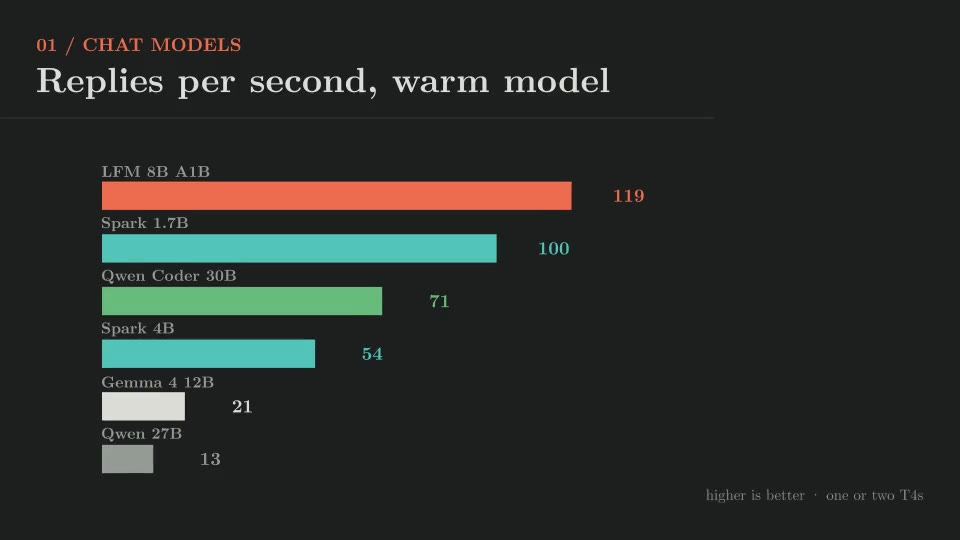
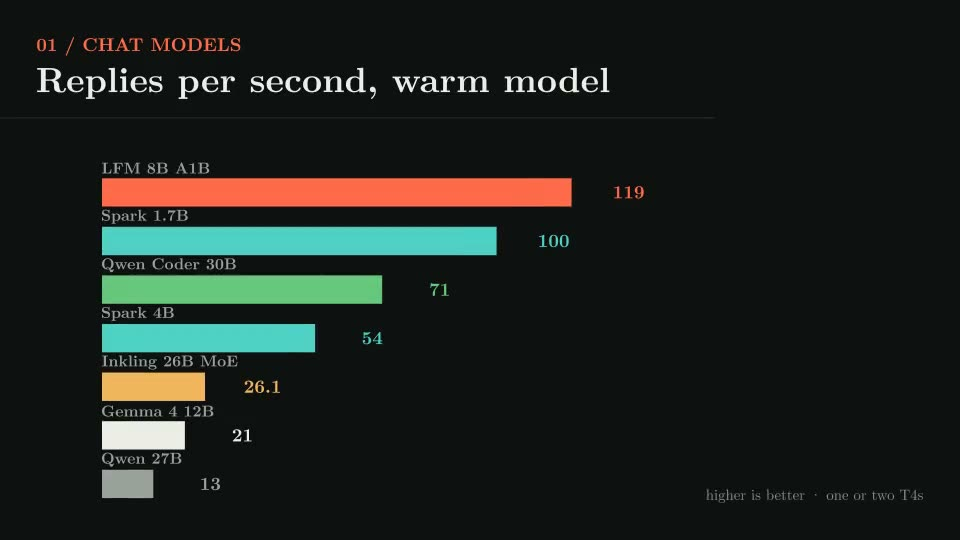
Fold the recommended Inkling quant into the chat leaderboard
Build-time join in build_data.py appends the AD-IQ2_M entry
(26.1 tok/s decode, 341.8 prefill, 9.0 GB, one T4) to the chat
scoreboard from the inkling CSV - extracted.json stays untouched
as a completed project's artifact. The page bars, the page table,
the GEO chat table and the re-rendered LlmSpeed animation all
carry the entry between Spark 4B and Gemma 12B; the chapter
verdict now notes LFM replies ~4.6x faster than the looped 26B.

diff --git a/website/benchmarks.html b/website/benchmarks.html
@@ -32,7 +32,7 @@
 <p style="color:#AAB3AB">Every number below is measured on the same Kaggle notebook: 2x Tesla T4 15 GB, 31 GB RAM, 4 vCPU, CUDA 13. Source notes: <a href="https://blog.sdad.pro/" style="color:#FF6B4A">blog.sdad.pro</a>.</p>
 
 <h2 style='font-family:Georgia,serif;margin-top:38px'>Inkling-2-Mini on Kaggle 2x T4</h2><p style='color:#AAB3AB;line-height:1.7'>Inkling-2-Mini (thinkingmachines, 26.4B mixture-of-experts, 3.4B active,<br>looped transformer, multimodal) runs on ONE Tesla T4 via llama.cpp b12633<br>(CUDA 12.8 prebuilt) with GGUF quants up to 12.7 GB:<br>- Best all-round (recommended): AD-IQ2_M (uncens.) (8.06 GB) at 26.1 tok/s<br>  generation, 341.8 tok/s prompt; vision works with the mmproj<br>  projector at 37.3 s per image chat (14 GB peak).<br>- Fastest measured: UD-IQ1_M (1-bit) at 26.5 tok/s, but 1-bit<br>  quality is far below the recommended tier.<br>- Quality ceiling on one card: UD-Q3_K_XL (12.69 GB) at 24.3 tok/s.<br>- All six single-card quants measure 22.3-26.5 tok/s<br>  (512-token prompt, 256 generated, 3 repetitions).<br>- 4-bit quants (15.5-21.3 GB) do not fit one T4 and cannot be split across<br>  both: llama.cpp tensor-split is not implemented for this architecture;<br>  a GPU+CPU hybrid manages only 1.9-2.4 tok/s.<br>- Ollama (MLX-only official tag; bundled runner lacks the architecture),<br>  vLLM, SGLang and transformers all fail on this machine.<br>Full report: https://github.com/instax-dutta/T4-Bench/blob/main/benchmarks/inkling-2-mini/docs/BENCHMARK-RESULTS.md</p>
-<h2 style='font-family:Georgia,serif;margin-top:38px'>Chat and coding models</h2><table><thead><tr><th>Model</th><th>Reply tok/s</th><th>Prompt tok/s</th><th>VRAM GB</th><th>GPUs</th></tr></thead><tbody><tr><td>LiquidAI LFM2.5-8B-A1B</td><td>119.0</td><td>800.0</td><td>5.7</td><td>1x T4</td></tr><tr><td>XHToken Spark-X2.5-1.7B</td><td>100.0</td><td>n/a</td><td>1.3</td><td>1x T4</td></tr><tr><td>Qwen3-Coder-30B-A3B</td><td>71.0</td><td>165.0</td><td>22.0</td><td>2x T4 split</td></tr><tr><td>XHToken Spark-X2.5-4B</td><td>54.0</td><td>1385.0</td><td>3.7</td><td>1x T4</td></tr><tr><td>google Gemma 4 12B IT</td><td>21.0</td><td>144.0</td><td>8.1</td><td>1x T4</td></tr><tr><td>Qwen3.8-27B</td><td>13.0</td><td>52.0</td><td>17.7</td><td>2x T4 split</td></tr></tbody></table>
+<h2 style='font-family:Georgia,serif;margin-top:38px'>Chat and coding models</h2><table><thead><tr><th>Model</th><th>Reply tok/s</th><th>Prompt tok/s</th><th>VRAM GB</th><th>GPUs</th></tr></thead><tbody><tr><td>LiquidAI LFM2.5-8B-A1B</td><td>119.0</td><td>800.0</td><td>5.7</td><td>1x T4</td></tr><tr><td>XHToken Spark-X2.5-1.7B</td><td>100.0</td><td>n/a</td><td>1.3</td><td>1x T4</td></tr><tr><td>Qwen3-Coder-30B-A3B</td><td>71.0</td><td>165.0</td><td>22.0</td><td>2x T4 split</td></tr><tr><td>XHToken Spark-X2.5-4B</td><td>54.0</td><td>1385.0</td><td>3.7</td><td>1x T4</td></tr><tr><td>Inkling-2-Mini AD-IQ2_M (multimodal)</td><td>26.1</td><td>341.8</td><td>9.0</td><td>1x T4</td></tr><tr><td>google Gemma 4 12B IT</td><td>21.0</td><td>144.0</td><td>8.1</td><td>1x T4</td></tr><tr><td>Qwen3.8-27B</td><td>13.0</td><td>52.0</td><td>17.7</td><td>2x T4 split</td></tr></tbody></table>
 <h2 style='font-family:Georgia,serif;margin-top:38px'>Two-agent concurrency</h2><table><thead><tr><th>Agents</th><th>Per agent</th><th>Aggregate</th></tr></thead><tbody><tr><td>1.0</td><td>71 tok/s</td><td>11 tok/s (load-dominated wall)</td></tr><tr><td>2.0</td><td>56 + 52 tok/s</td><td>92 tok/s over 2.3s wall</td></tr></tbody></table>
 <h2 style='font-family:Georgia,serif;margin-top:38px'>Tool-use evaluation</h2><table><thead><tr><th>Metric</th><th>Score</th></tr></thead><tbody><tr><td>Passed / partial / failed</td><td>9 / 4 / 2</td></tr><tr><td>Points</td><td>22/30</td></tr><tr><td>Quality</td><td>73/100</td></tr><tr><td>Responsiveness</td><td>74/100 (median turn 1.5s)</td></tr><tr><td>Deployability</td><td>73/100</td></tr><tr><td>Weakest category</td><td>Multi-Step Chains (33%)</td></tr><tr><td>Safety</td><td>1 warning (TC-08: batched tools before reading results)</td></tr></tbody></table>
 <h2 style='font-family:Georgia,serif;margin-top:38px'>Spark agent tasks</h2><table><thead><tr><th>Task</th><th>1.7B</th><th>4B</th></tr></thead><tbody><tr><td>T1 implement `median()` to pass 5 pytest tests</td><td>PASS, 5 steps, 1 tool error, ran tests</td><td>PASS, 4 steps, 0 errors, ran tests</td></tr><tr><td>T2 debug repo (binary-search off-by-one across 2 files), 7 tests</td><td>PASS, 3 steps, 5 errors, ran tests</td><td>PASS, 14 steps, 9 errors, never ran the suite itself (final state correct at step limit, verification gap)</td></tr><tr><td>T3 implement LRU cache from spec from scratch, 5 tests</td><td>FAIL, 3 tool steps + 17 no-call turns, never wrote a working file</td><td>PASS, 5 steps, 1 error, ran tests</td></tr><tr><td>Agentic score</td><td>2/3</td><td>3/3</td></tr></tbody></table>

diff --git a/website/app.js b/website/app.js
@@ -89,7 +89,7 @@
       130, (it, i) => i === 0 ? hot : cool, v => v + ' tok/s');
     table('#llm-table', ['Model', 'Reply speed (tok/s)', 'Prompt speed (tok/s)', 'Graphics memory', 'GPUs'],
       llm.map(m => [m.model, m.decodeTokS, m.prefillTokS === null || m.prefillTokS === undefined ? 'n/a' : m.prefillTokS, m.vramGB + ' GB', m.gpus]));
-    $('#llm-verdict').textContent = 'LFM2.5-8B-A1B replies about 9× faster than the largest dense model, while using only one of the two GPUs.';
+    $('#llm-verdict').textContent = 'LFM2.5-8B-A1B replies about 9× faster than the largest dense model and about 4.6× faster than the looped multimodal 26B, while using only one of the two GPUs.';
 
     bars('#concurrency-bars', D.agentConcurrency.map(x => ({ label: x.agents + ' agent' + (x.agents > 1 ? 's' : ''), value: x.agents === 1 ? 71 : 108, extra: x.aggregate })),
       120, (it, i) => i ? green : cool, (v, it) => it.extra);

diff --git a/website/data.js b/website/data.js
@@ -357,6 +357,14 @@ window.BENCH_DATA = {
       "decodeTokS": 13.0,
       "prefillTokS": 52.0,
       "gpus": "2x T4 split"
+    },
+    {
+      "model": "Inkling-2-Mini AD-IQ2_M (multimodal)",
+      "sizeGB": 8.06,
+      "vramGB": 9.0,
+      "decodeTokS": 26.1,
+      "prefillTokS": 341.8,
+      "gpus": "1x T4"
     }
   ],
   "inkling": {

diff --git a/website/scripts/build_data.py b/website/scripts/build_data.py
@@ -176,6 +176,19 @@ inkling_vision = [
      "peakVramMiB": 513, "result": "context creation out of memory"},
 ]
 
+# Build-time join: the recommended Inkling quant takes its place in the chat
+# leaderboard. The entry comes from the inkling-2-mini project's CSV at build
+# time; extracted.json (a completed project's artifact) is never edited.
+_ink_chat = next(m for m in inkling_single if "AD-IQ2_M" in m["id"])
+EXTRA["llmScoreboard"].append({
+    "model": "Inkling-2-Mini AD-IQ2_M (multimodal)",
+    "sizeGB": _ink_chat["sizeGiB"],
+    "vramGB": round(_ink_chat["peakVramMiB"] / 1024, 1),
+    "decodeTokS": _ink_chat["tg"],
+    "prefillTokS": _ink_chat["pp"],
+    "gpus": "1x T4",
+})
+
 data = {
     "generated": "2026-11-22",
     "server": {"gpus": 2, "gpu": "Tesla T4 15360 MiB", "arch": "sm_75 Turing",

diff --git a/website/manim/scenes.py b/website/manim/scenes.py
@@ -177,8 +177,9 @@ class LlmSpeed(m.Scene):
         header(self, "01 / CHAT MODELS", "Replies per second, warm model")
         hbars(self, [("LFM 8B A1B", 119, "119", VERM), ("Spark 1.7B", 100, "100", TEAL),
                      ("Qwen Coder 30B", 71, "71", GREEN), ("Spark 4B", 54, "54", TEAL),
+                     ("Inkling 26B MoE", 26.1, "26.1", AMBER),
                      ("Gemma 4 12B", 21, "21", INK), ("Qwen 27B", 13, "13", MUTED)],
-              130, note="higher is better · one or two T4s")
+              130, y0=1.15, step=0.72, note="higher is better · one or two T4s")
 
 
 class ToolEval(m.Scene):
